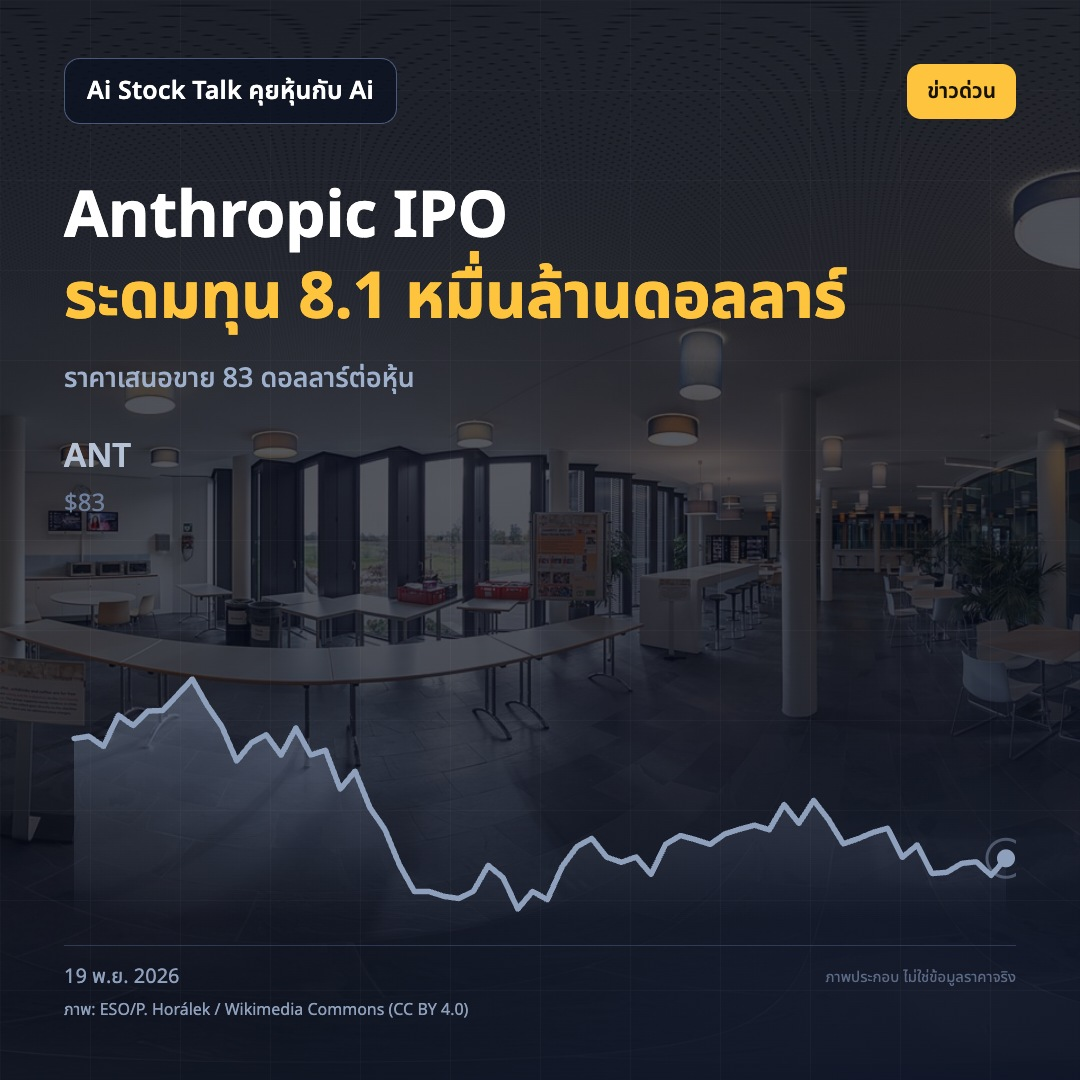
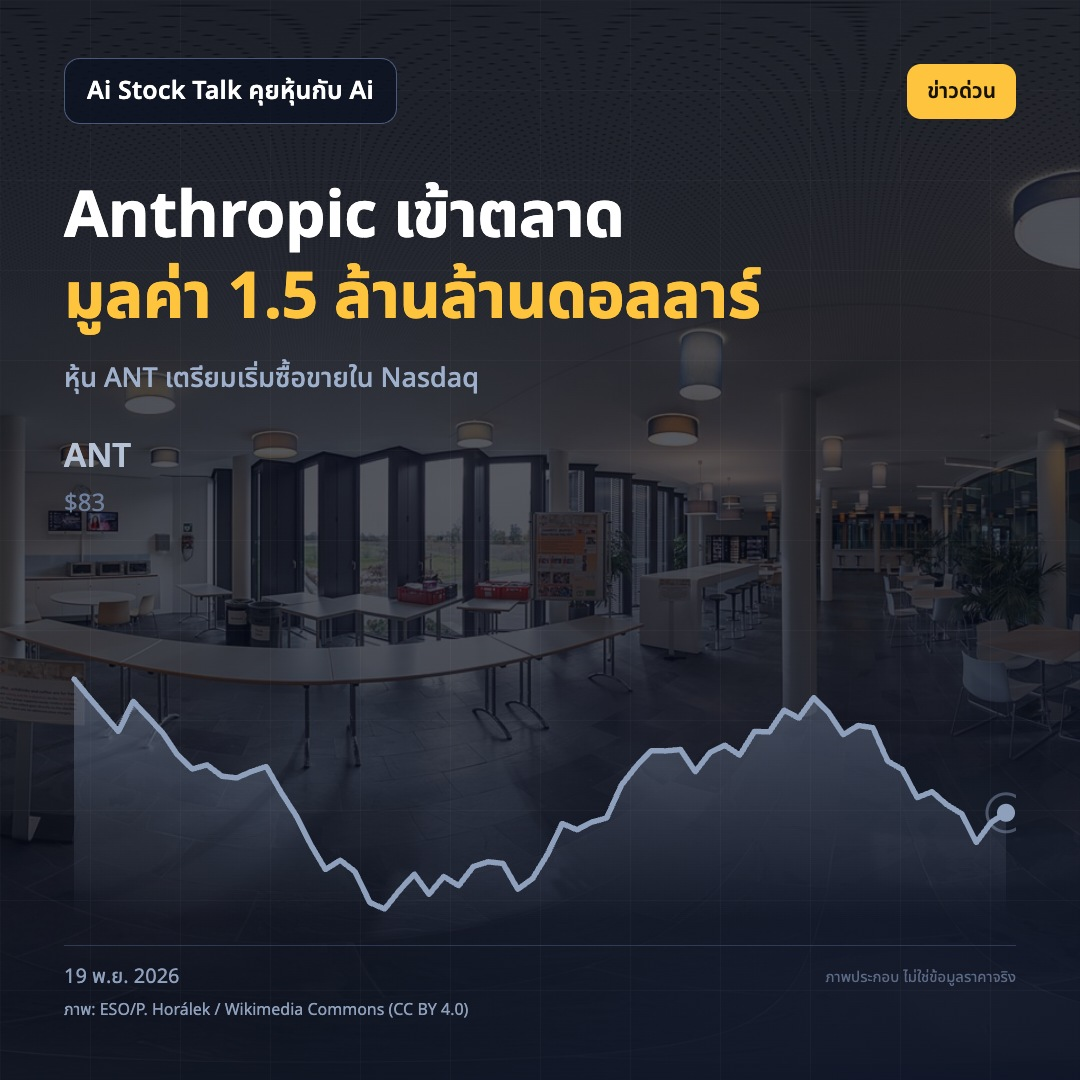
radar: 2026-11-19

diff --git a/docs/2026-11-19.html b/docs/2026-11-19.html
@@ -16,69 +16,63 @@
 <h1>Ai Stock Talk คุยหุ้นกับ Ai — 19 พ.ย. 2026</h1>
 <p class="meta">เผยแพร่ 2026-11-19</p>
 <img class="cover" src="img/cover-2026-11-19.jpg" alt="ภาพปกข่าว 2026-11-19">
-<article><h2>1. Anthropic ระดมทุน IPO กว่า 8.1 หมื่นล้านดอลลาร์</h2>
+<article><h2>1. Anthropic เตรียมเข้าตลาด มูลค่ากิจการ 1.5 ล้านล้านดอลลาร์</h2>
 <p><img alt="cover" src="img/post-1-cover-2026-11-19.jpg" /></p>
-<p>Anthropic ระดมทุน IPO กว่า 8.1 หมื่นล้านดอลลาร์</p>
-<p>การเสนอขายหุ้นครั้งนี้มีมูลค่าสูงสุดเป็นประวัติการณ์ แซง SpaceX ตามรายงานของ CNBC
-TechCrunch รายงานว่าราคาเสนอขายอยู่ที่ 83 ดอลลาร์ต่อหุ้น สูงกว่ากรอบราคาที่คาดไว้ และตีมูลค่าบริษัทแบบนับหุ้นทั้งหมดที่ 1.5 ล้านล้านดอลลาร์
-หุ้นมีกำหนดเริ่มซื้อขายบน Nasdaq ภายใต้ชื่อย่อ ANT ในวันพฤหัสบดี</p>
-<p>ทำไมต้องสน: ราคา IPO นี้จะเป็นจุดอ้างอิงใหม่ในการมองมูลค่าบริษัท AI นักลงทุนไทยที่ถือหุ้นเทคสหรัฐฯ ควรดูว่าความสนใจใน Anthropic กระทบหุ้น AI ตัวอื่นอย่างไร</p>
-<p>ถ้าจะประเมินหุ้น AI คุณให้น้ำหนักกับราคาเสนอขายหรือผลประกอบการมากกว่ากัน?</p>
-<p>ที่มา: https://www.cnbc.com/2026/11/18/anthropic-ipo-ai-offering-price.html https://techcrunch.com/2026/11/18/anthropic-reportedly-prices-ipo-at-83-a-share-above-projected-range/</p>
-<h1>Anthropic #หุ้นAI #หุ้นสหรัฐ</h1>
+<p>Anthropic เตรียมเข้าตลาด ด้วยมูลค่า 1.5 ล้านล้านดอลลาร์</p>
+<p>หุ้น Anthropic เตรียมเริ่มซื้อขายใน Nasdaq คืนนี้ตามเวลาไทย ภายใต้ตัวย่อ ANT โดยกำหนดราคาเสนอขายที่ 83 ดอลลาร์ต่อหุ้น สูงกว่ากรอบราคาเดิม 70–78 ดอลลาร์</p>
+<p>การเสนอขายระดมทุนได้มากกว่า 81,000 ล้านดอลลาร์ ซึ่ง CNBC ระบุว่าเป็นการเสนอขายครั้งใหญ่ที่สุดเป็นประวัติการณ์</p>
+<p>ทำไมต้องสน: นักลงทุนไทยที่ถือหุ้น AI จะมีหุ้นบริษัทผู้พัฒนาโมเดล AI ให้ติดตามโดยตรงเพิ่มอีกตัว ขนาดของดีลยังทำให้ตลาดจับตาว่าเงินลงทุนจะไหลไปที่หุ้น AI รายใด</p>
+<p>ถ้าติดตามหุ้น AI อยู่ คุณจะดูอะไรเป็นอย่างแรกเมื่อ ANT เริ่มซื้อขาย?</p>
+<p>ที่มา: https://www.blognone.com/node/152203 https://www.cnbc.com/2026/11/18/anthropic-ipo-ai-offering-price.html</p>
+<h1>Anthropic #หุ้นAI #ตลาดหุ้นสหรัฐ</h1>
 <p><em>ภาพ: ESO/P. Horálek / Wikimedia Commons (CC BY 4.0)</em></p>
-<h2>2. Palo Alto ซื้อบริษัท AI มูลค่า 4.5 พันล้านดอลลาร์ หุ้นบวก 7%</h2>
+<h2>2. Nvidia เปลี่ยนผู้นำ หลัง Jensen Huang ออก</h2>
 <p><img alt="cover" src="img/post-2-cover-2026-11-19.jpg" /></p>
-<p>Palo Alto ดีล AI 4.5 พันล้านดอลลาร์ หุ้นบวก 7%</p>
-<p>Palo Alto Networks ตกลงซื้อ Applied Compute บริษัทด้าน AI ด้วยมูลค่า 4.5 พันล้านดอลลาร์ ตามรายงานของ CNBC
-หุ้นปรับขึ้น 7% หลังการรายงานผลประกอบการ บริษัทเดินหน้าซื้อกิจการเพื่อรับความต้องการเครื่องมือความปลอดภัยไซเบอร์ที่เกี่ยวข้องกับ AI
-MarketWatch รายงานด้วยว่าบริษัทปรับเพิ่มแนวโน้มผลประกอบการ โดยชี้ไปที่สภาพภัยคุกคามและความต้องการที่เห็นข้างหน้า</p>
-<p>ทำไมต้องสน: สำหรับนักลงทุนที่มอง AI ผ่านหุ้นความปลอดภัยไซเบอร์ ข่าวนี้มีทั้งดีลซื้อกิจการ ผลประกอบการ และการขยับของราคาหุ้นให้พิจารณาพร้อมกัน</p>
-<p>คุณมองดีลนี้เป็นโอกาสเติบโต หรืออยากเห็นผลจากการซื้อกิจการก่อน?</p>
-<p>ที่มา: https://www.cnbc.com/2026/11/18/palo-alto-networks-panw-q1-2027-earnings-.html https://www.marketwatch.com/story/palo-alto-networks-stock-soars-as-earnings-show-ai-has-upped-the-stakes-for-cybersecurity-308e34b8?mod=mw_rss_topstories</p>
-<h1>PaloAltoNetworks #หุ้นไซเบอร์ #หุ้นAI</h1>
-<p><em>ภาพ: Diliff / Wikimedia Commons (CC BY 2.5)</em></p>
-<h2>3. Nvidia เปลี่ยนผู้นำ ขณะกำไรยังสูงถึง 8,300 ดอลลาร์ต่อวินาที</h2>
-<p><img alt="cover" src="img/post-3-cover-2026-11-19.jpg" /></p>
-<p>Nvidia กำไร 8,300 ดอลลาร์ต่อวินาที แต่ผู้นำเปลี่ยน</p>
-<p>The Verge คำนวณว่าขณะนี้ Nvidia ทำกำไรราว 8,300 ดอลลาร์ต่อวินาที สะท้อนขนาดธุรกิจที่นักลงทุนกำลังประเมิน
-อีกด้าน Jensen Huang ออกจากตำแหน่งซีอีโอ และ Colette Kress ขึ้นเป็นซีอีโอชั่วคราว โดย CNBC รายงานว่าเธอได้พบพนักงานทั้งบริษัทแล้ว
-Microsoft CEO Satya Nadella แสดงความเชื่อมั่นใน Kress ขณะที่ MarketWatch ระบุว่าผู้ถือหุ้นยังจับตาเรื่องผู้สืบทอดตำแหน่ง ระบบนิเวศ AI การควบคุมการส่งออก และจีน</p>
-<p>ทำไมต้องสน: นักลงทุนที่ถือ NVDA ต้องประเมินทั้งกำลังทำกำไรของธุรกิจและความไม่แน่นอนด้านผู้นำในเวลาเดียวกัน</p>
-<p>สำหรับคุณ ประเด็นใดมีผลต่อการถือ NVDA มากที่สุด?</p>
-<p>ที่มา: https://www.theverge.com/tech/1035924/nvidia-visualized-revenue-profit-earnings-after-huang https://www.cnbc.com/2026/11/18/nvidia-interim-ceo-kress-addresses-staff-after-jensen-huang-exit-.html https://techcrunch.com/2026/11/18/microsoft-ceo-satya-nadella-remains-confident-in-nvidia-after-huangs-exit/ https://www.marketwatch.com/story/what-wall-street-analysts-are-now-saying-after-nvidias-beat-and-raise-quarter-9311c85d?mod=mw_rss_topstories</p>
-<h1>Nvidia #NVDA #หุ้นAI</h1>
+<p>Nvidia มี CEO ชั่วคราว 1 คน หลัง Jensen Huang ออก</p>
+<p>Colette Kress รับหน้าที่ซีอีโอชั่วคราวของ Nvidia และพูดกับพนักงานในการประชุมรวมครั้งแรกหลังการออกจากตำแหน่งของ Huang พร้อมเสนอการขึ้นค่าจ้าง</p>
+<p>Satya Nadella ซีอีโอ Microsoft ระบุว่ายังเชื่อมั่นใน Kress ขณะที่ Elon Musk แสดงความกังวลต่อการเสีย Huang ไป</p>
+<p>ทำไมต้องสน: Nvidia เป็นหุ้นที่นักลงทุนไทยใช้ติดตามธุรกิจชิป AI การเปลี่ยนผู้นำจึงทำให้ต้องจับตาว่าบริษัทจะเดินหน้าต่อภายใต้ Kress อย่างไร ความเห็นจากลูกค้าอย่าง Microsoft เป็นอีกสัญญาณที่ตลาดอาจนำมาพิจารณา</p>
+<p>สำหรับคุณ สิ่งแรกที่อยากเห็นจากผู้นำชั่วคราวของ Nvidia คืออะไร?</p>
+<p>ที่มา: https://www.cnbc.com/2026/11/18/nvidia-interim-ceo-kress-addresses-staff-after-jensen-huang-exit-.html https://techcrunch.com/2026/11/18/microsoft-ceo-satya-nadella-remains-confident-in-nvidia-after-huangs-exit/</p>
+<h1>Nvidia #หุ้นชิป #หุ้นAI</h1>
 <p><em>ภาพ: Dicklyon / Wikimedia Commons (CC BY-SA 4.0)</em></p>
-<h2>4. Microsoft เสนอให้พนักงาน 60,000 คนลาออกโดยสมัครใจ</h2>
+<h2>3. Intel ได้ลูกค้าภายนอกรายแรกสำหรับชิป 18A</h2>
+<p><img alt="cover" src="img/post-3-cover-2026-11-19.jpg" /></p>
+<p>Intel ได้ลูกค้าภายนอกรายแรกสำหรับชิป 18A</p>
+<p>Lip-Bu Tan ซีอีโอ Intel ระบุว่าบริษัทลงนามกับลูกค้าภายนอกรายแรกสำหรับชิป 18A แล้ว ข่าวนี้เป็นความคืบหน้าของธุรกิจรับผลิตชิปที่นักลงทุนติดตามอยู่</p>
+<p>ข้อมูลในข่าวยังไม่ได้ระบุชื่อลูกค้าหรือรายละเอียดคำสั่งซื้อ จึงยังประเมินขนาดรายได้จากสัญญานี้ไม่ได้</p>
+<p>ทำไมต้องสน: สำหรับคนไทยที่ถือหุ้นชิปหรือกองทุนเทคสหรัฐ การมีลูกค้าภายนอกจริงเป็นข้อมูลที่ใช้ติดตามโอกาสของ Intel ในธุรกิจผลิตชิป ขั้นต่อไปที่สำคัญคือรายละเอียดของงานผลิตและคำสั่งซื้อ</p>
+<p>คุณอยากเห็นข้อมูลใดก่อนตัดสินว่าดีล 18A นี้มีน้ำหนักต่อหุ้น Intel?</p>
+<p>ที่มา: https://www.cnbc.com/2026/11/18/intel-first-18a-foundry-customer.html</p>
+<h1>Intel #ชิป18A #หุ้นชิป</h1>
+<p><em>ภาพ: Dicklyon / Wikimedia Commons (CC BY-SA 4.0)</em></p>
+<h2>4. Palo Alto Networks ซื้อกิจการ AI มูลค่า 4.5 พันล้านดอลลาร์ หุ้นบวก 7%</h2>
 <p><img alt="cover" src="img/post-4-cover-2026-11-19.jpg" /></p>
-<p>Microsoft เสนอทางออกให้พนักงาน 60,000 คน</p>
-<p>Satya Nadella อธิบายเหตุผลที่ Microsoft เสนอเงินชดเชยให้พนักงาน 60,000 คนลาออกโดยสมัครใจในเดือนตุลาคม ตามรายงานของ TechCrunch
-บริษัทเลือกแนวทางนี้แทนการลดพนักงานครั้งใหญ่ด้วยการเลิกจ้าง ข่าวระบุว่า AI เป็นส่วนหนึ่งของคำอธิบาย แต่รายละเอียดซับซ้อนกว่าการบอกว่า AI เข้ามาแทนคน
-ตัวเลข 60,000 คนทำให้เรื่องนี้มีน้ำหนักสำหรับผู้ติดตามบริษัทเทคขนาดใหญ่ แม้การเสนอให้ลาออกไม่ได้หมายความว่าทุกคนจะรับข้อเสนอ</p>
-<p>ทำไมต้องสน: คนถือ MSFT ควรติดตามว่าการจัดกำลังคนครั้งนี้จะส่งผลต่อการดำเนินธุรกิจและต้นทุนอย่างไร โดยยังไม่มีผลลัพธ์นั้นในข้อมูลที่รายงาน</p>
-<p>คุณอยากเห็นข้อมูลอะไรเพิ่มเติมก่อนตัดสินผลของเรื่องนี้ต่อหุ้น?</p>
-<p>ที่มา: https://techcrunch.com/2026/11/18/microsoft-ceo-satya-nadella-explains-why-he-asked-60k-employees-to-quit/</p>
-<h1>Microsoft #MSFT #งานเทค</h1>
-<p><em>ภาพ: Ofrashay / Wikimedia Commons (CC BY-SA 4.0)</em></p>
-<h2>5. หุ้น Microsoft ลดลงเกือบ 9% จากจุดสูงสุด ท่ามกลางปัญหา Outlook</h2>
+<p>Palo Alto Networks ซื้อดีล 4.5 พันล้าน หุ้นบวก 7%</p>
+<p>Palo Alto Networks ตกลงซื้อ Applied Compute ซึ่งเป็นสตาร์ตอัป AI ด้วยมูลค่า 4.5 พันล้านดอลลาร์ และหุ้นบริษัทปรับขึ้น 7% หลังรายงานผลประกอบการ</p>
+<p>บริษัทเดินหน้าซื้อกิจการเพื่อรับความต้องการเครื่องมือความปลอดภัยไซเบอร์ที่เกี่ยวข้องกับ AI พร้อมปรับเพิ่มแนวโน้มผลประกอบการ</p>
+<p>ทำไมต้องสน: นักลงทุนไทยที่ถือหุ้นเทคสหรัฐอาจต้องมองการใช้ AI อีกด้านหนึ่ง คือความต้องการป้องกันภัยไซเบอร์ ข่าวนี้มีทั้งดีลซื้อกิจการและการตอบรับของหุ้น แต่ยังต้องติดตามว่าบริษัทจะได้ผลจากดีลนี้เพียงใด</p>
+<p>คุณมองว่าธุรกิจความปลอดภัยไซเบอร์จะได้ประโยชน์จาก AI มากขึ้นไหม?</p>
+<p>ที่มา: https://www.cnbc.com/2026/11/18/palo-alto-networks-panw-q1-2027-earnings-.html https://www.marketwatch.com/story/palo-alto-networks-stock-soars-as-earnings-show-ai-has-upped-the-stakes-for-cybersecurity-308e34b8?mod=mw_rss_topstories</p>
+<h1>PaloAltoNetworks #ความปลอดภัยไซเบอร์ #หุ้นAI</h1>
+<p><em>ภาพ: Diliff / Wikimedia Commons (CC BY 2.5)</em></p>
+<h2>5. Microsoft เสนอให้พนักงาน 60,000 คนสมัครใจลาออก</h2>
 <p><img alt="cover" src="img/post-5-cover-2026-11-19.jpg" /></p>
-<p>MSFT ลดลงเกือบ 9% จากจุดสูงสุด 4 พ.ย.</p>
-<p>CNBC รายงานว่าหุ้น Microsoft ลดลงเกือบ 9% นับจากวันที่ปิดที่ระดับสูงสุดเป็นประวัติการณ์เมื่อ 4 พฤศจิกายน ตัวเลขนี้เป็นการเปลี่ยนแปลงสะสม ไม่ใช่การขยับของวันเดียว
-Satya Nadella เรียกเหตุ Outlook ใช้งานขัดข้องว่าเป็นผลจากหลายปัจจัยที่เกิดพร้อมกัน ขณะบริษัทกำลังเผชิญคำถามเรื่องบริการซอฟต์แวร์
-การหยุดชะงักของบริการจึงเป็นอีกเรื่องที่ผู้ถือหุ้นต้องติดตามควบคู่กับกระแส AI ของ Microsoft</p>
-<p>ทำไมต้องสน: นักลงทุนไทยที่ถือ MSFT ควรแยกผลกระทบของเหตุขัดข้องออกจากการเปลี่ยนแปลงราคาหุ้นสะสม ก่อนตีความว่าตลาดกังวลเรื่องใด</p>
-<p>สำหรับคุณ เหตุ Outlook ขัดข้องเปลี่ยนมุมมองต่อหุ้น Microsoft หรือไม่?</p>
-<p>ที่มา: https://www.cnbc.com/2026/11/18/microsoft-put-the-ai-threat-to-software-behind-it-then-came-the-outage.html</p>
-<h1>Microsoft #MSFT #Outlook</h1>
+<p>Microsoft เสนอทางออกให้พนักงาน 60,000 คน</p>
+<p>Satya Nadella ซีอีโอ Microsoft อธิบายเหตุผลที่บริษัทเสนอเงินชดเชยเพื่อให้พนักงาน 60,000 คนเลือกลาออกโดยสมัครใจเมื่อเดือนตุลาคม แทนการลดพนักงานครั้งใหญ่อีกครั้ง</p>
+<p>รายงานระบุว่า AI เป็นส่วนหนึ่งของเหตุผล แต่รายละเอียดในข้อมูลที่ให้มายังไม่พอจะสรุปว่าตำแหน่งงานใดได้รับผลกระทบบ้าง</p>
+<p>ทำไมต้องสน: สำหรับนักลงทุนไทยที่ถือหุ้น Microsoft ข่าวนี้ทำให้ต้องติดตามว่าบริษัทจะปรับกำลังคนและการใช้ AI อย่างไร รวมถึงผลที่อาจปรากฏในต้นทุนและการดำเนินงานระยะต่อไป</p>
+<p>คุณคิดว่าข้อมูลใดจะช่วยบอกได้ว่าการปรับครั้งนี้ส่งผลดีต่อธุรกิจจริง?</p>
+<p>ที่มา: https://techcrunch.com/2026/11/18/microsoft-ceo-satya-nadella-explains-why-he-asked-60k-employees-to-quit/</p>
+<h1>Microsoft #งานกับAI #หุ้นเทค</h1>
 <p><em>ภาพ: Ofrashay / Wikimedia Commons (CC BY-SA 4.0)</em></p>
-<h2>6. 3 เขตการศึกษาใหญ่สหรัฐฯ พิจารณาเลิกใช้ Google Search</h2>
+<h2>6. โรงเรียนใน 3 เมืองใหญ่สหรัฐฯ พิจารณาเลิกใช้ Google Search</h2>
 <p><img alt="cover" src="img/post-6-cover-2026-11-19.jpg" /></p>
-<p>3 เขตการศึกษาใหญ่พิจารณาทางเลือกแทน Google</p>
-<p>เขตการศึกษาในนิวยอร์ก ลอสแอนเจลิส และชิคาโก กำลังพิจารณาทางเลือกอื่น หลัง Google ระบุว่าโรงเรียนที่ปิดฟีเจอร์ AI จะไม่สามารถใช้ Search ได้ ตามรายงานของ The Verge
-ตั้งแต่ปีหน้า โรงเรียนจะไม่มีทางเลือกให้ปิดฟีเจอร์ที่ใช้ Gemini แล้วคง Search ไว้ ผู้บริหารฝ่ายการศึกษาของ Google ระบุว่า Search กับ AI เชื่อมกันอย่างลึกซึ้ง
-ประเด็นนี้ทำให้การนำ AI เข้าไปในผลิตภัณฑ์เดิมของ Google กลายเป็นเรื่องที่ลูกค้าบางกลุ่มต้องตัดสินใจ</p>
-<p>ทำไมต้องสน: สำหรับคนติดตามหุ้น Alphabet คำถามคือการผูก Search กับ Gemini จะรักษาผู้ใช้กลุ่มโรงเรียนไว้ได้เพียงใด ยังไม่มีข้อมูลในรายการข่าวว่ามีเขตใดเลิกใช้จริง</p>
-<p>ถ้าเป็นโรงเรียน คุณจะเลือกใช้ Search ต่อพร้อม AI หรือหาทางเลือกอื่น?</p>
+<p>โรงเรียน 3 เมืองใหญ่ชั่งใจเลิก Google Search เพราะ AI</p>
+<p>เขตการศึกษาในนิวยอร์ก ลอสแอนเจลิส และชิคาโก กำลังพิจารณาทางเลือกอื่นแทน Google หลังบริษัทระบุว่าโรงเรียนที่ปิดฟีเจอร์ AI จะใช้ Search ไม่ได้ด้วย</p>
+<p>ตั้งแต่ปีหน้า โรงเรียนจะไม่สามารถปิดฟีเจอร์ที่ขับเคลื่อนด้วย Gemini โดยยังเปิด Search ไว้ตามเดิมได้</p>
+<p>ทำไมต้องสน: นักลงทุนไทยที่ถือหุ้น Google ควรติดตามว่าการผูก Search เข้ากับ AI จะส่งผลต่อการใช้บริการในโรงเรียนอย่างไร ตอนนี้เป็นขั้นพิจารณาทางเลือก ยังไม่มีข้อมูลว่าเขตการศึกษาเหล่านี้ตัดสินใจเลิกใช้แล้ว</p>
+<p>ถ้าเป็นโรงเรียนของคุณ ควรมีสิทธิ์เลือกปิด AI แต่ใช้ Search ต่อได้ไหม?</p>
 <p>ที่มา: https://www.theverge.com/ai-artificial-intelligence/1037151/school-districts-ditching-google</p>
 <h1>Google #Gemini #หุ้นเทค</h1>
 <p><em>ภาพ: Diliff / Wikimedia Commons (CC BY 2.5)</em></p></article>
